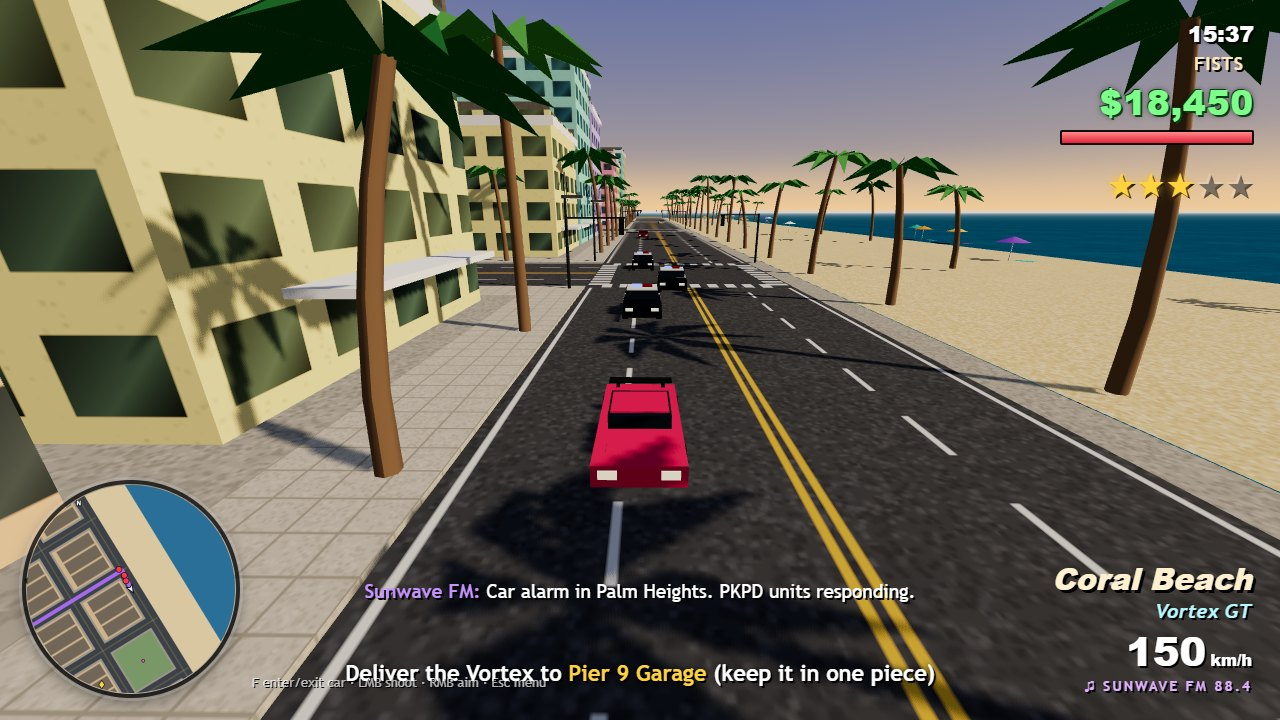
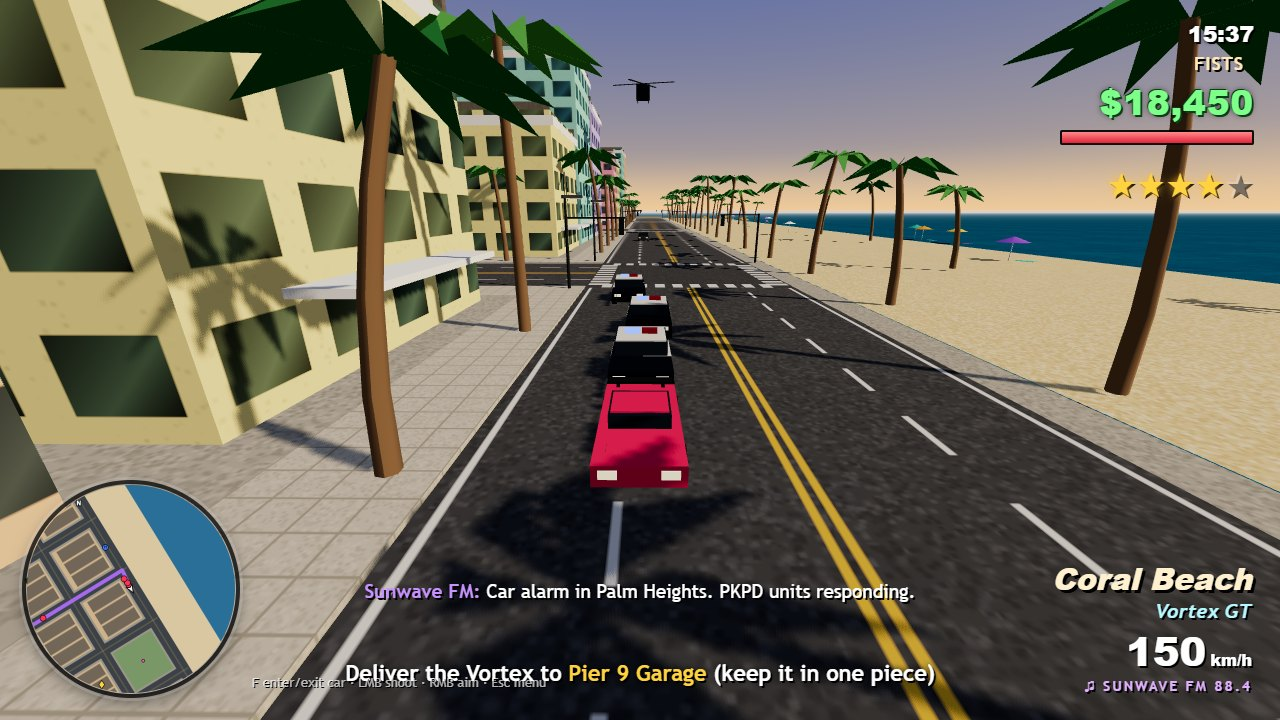
Vigilante side activity, beach walkers, helicopter in the cover chase
- steal a PKPD Cruiser and press V for escalating suspect takedowns
- pedestrians stroll the beach promenade; people and cars follow the
  beach slope
- the helicopter circles lower so it is seen; cover shot at four stars

diff --git a/game/src/activities.js b/game/src/activities.js
@@ -1,0 +1,110 @@
+// Side activities between story missions. Vigilante: steal a PKPD Cruiser and press V to take
+// calls from dispatch; each call is a suspect's car fleeing somewhere in the city that has to be
+// wrecked before the clock runs out. Every level pays more and makes the suspects faster.
+import { spawnTrafficCar } from './traffic.js';
+
+const SUSPECT_MODELS = ['brava', 'mule', 'cabana', 'vortex'];
+
+export function createActivities(game) {
+  const st = { active: false, level: 0, target: null, arrow: null, timer: 0, wait: 0 };
+
+  function clearTarget() {
+    st.arrow?.remove();
+    st.arrow = null;
+    if (st.target) st.target.persistent = false;
+    st.target = null;
+  }
+
+  function nextCall() {
+    clearTarget();
+    const model = SUSPECT_MODELS[Math.min(SUSPECT_MODELS.length - 1, Math.floor(st.level / 2))];
+    const car = spawnTrafficCar(game, 70, 170, model);
+    if (!car) {
+      st.wait = 0.5;
+      return;
+    }
+    car.persistent = true;
+    car.tag = 'suspect';
+    car.ai.cruise = 15 + st.level * 1.5;
+    st.target = car;
+    st.arrow = game.markers.arrow(car, 0xff3b3b);
+    st.timer = 100 + st.level * 5;
+    game.hud.radio([{ name: 'PKPD Dispatch', color: '#7fb2ff', text: `Level ${st.level + 1}: suspect fleeing in a ${car.spec.name}. Take them down.` }]);
+    game.hud.objective('Vigilante: wreck the ~suspect~ car');
+  }
+
+  function start() {
+    st.active = true;
+    st.level = 0;
+    game.hud.bigMessage('VIGILANTE', 'Wreck the suspects before they get away', 'title');
+    nextCall();
+  }
+
+  function stop(reason) {
+    if (!st.active) return;
+    st.active = false;
+    clearTarget();
+    game.hud.timer(null);
+    game.hud.targetBar(null);
+    game.hud.objective('');
+    game.hud.bigMessage('VIGILANTE OVER', reason, 'red');
+    game.stats.vigilanteBest = Math.max(game.stats.vigilanteBest ?? 0, st.level);
+  }
+
+  game.events.on('vehicleExploded', (v) => {
+    if (!st.active || v !== st.target) return;
+    st.level += 1;
+    const reward = 300 + st.level * 250;
+    game.addMoney(reward, false);
+    game.hud.bigMessage('SUSPECT DOWN', `+$${reward} · level ${st.level} cleared`, 'gold');
+    game.audio.passed();
+    clearTarget();
+    st.wait = 3;
+  });
+
+  function update(dt, input) {
+    const v = game.player.vehicle;
+    if (!st.active) {
+      if (v && v.modelId === 'cruiser' && !game.missions.active && !game.missions.inCutscene) {
+        game.hud.hint('<kbd>V</kbd> Start Vigilante duty');
+        if (input.pressed('KeyV')) start();
+      }
+      return;
+    }
+    if (!v || v.modelId !== 'cruiser') {
+      stop('You left the cruiser');
+      return;
+    }
+    if (game.missions.active) {
+      stop('A story mission started');
+      return;
+    }
+    if (input.pressed('KeyV')) {
+      stop('Off duty');
+      return;
+    }
+    if (st.wait > 0) {
+      st.wait -= dt;
+      if (st.wait <= 0) nextCall();
+      return;
+    }
+    const t = st.target;
+    if (!t || t.removed) {
+      nextCall();
+      return;
+    }
+    st.timer -= dt;
+    game.hud.timer(st.timer);
+    game.hud.targetBar(t.health / t.spec.health, 'Suspect');
+    const d = Math.hypot(t.x - v.x, t.z - v.z);
+    if (d < 70 && t.ai) t.ai.panic = 2;
+    if (st.timer <= 0 || d > 340) stop('The suspect got away');
+  }
+
+  function blips() {
+    if (!st.active || !st.target || st.target.dead) return [];
+    return [{ x: st.target.x, z: st.target.z, color: '#ff3b3b', big: true }];
+  }
+
+  return { update, blips, stop, get active() { return st.active; } };
+}

diff --git a/playtest.ts b/playtest.ts
@@ -60,7 +60,7 @@ async function js(expression: string): Promise<any> {
   if (r.result?.exceptionDetails) throw new Error(`${expression}: ${r.result.exceptionDetails.exception?.description}`);
   return r.result?.result?.value;
 }
-const KEYS: Record<string, number> = { KeyW: 87, KeyA: 65, KeyS: 83, KeyD: 68, KeyF: 70, Space: 32, KeyE: 69, Escape: 27, Digit2: 50 };
+const KEYS: Record<string, number> = { KeyV: 86, KeyW: 87, KeyA: 65, KeyS: 83, KeyD: 68, KeyF: 70, Space: 32, KeyE: 69, Escape: 27, Digit2: 50 };
 async function key(code: string, type: 'keyDown' | 'keyUp') {
   await send('Input.dispatchKeyEvent', { type, code, key: code.replace(/^Key|^Digit/, '').toLowerCase(), windowsVirtualKeyCode: KEYS[code] });
 }
@@ -158,6 +158,18 @@ await js(`(async () => { const g = __game; const a = g.player.actor; g.police.se
 for (let i = 0; i < 12 && !(await js(`!!__game.death`)); i += 1) await waitGame(0.5);
 check('player can be busted', await js(`!!__game.death && __game.death.kind === 'busted'`));
 await waitGame(2.5);
+
+// Vigilante: steal a cruiser, press V, wreck the suspect.
+await js(`(async () => { const g = __game; const a = g.player.actor; const { spawnVehicle } = await import('./src/vehicles.js'); const v = spawnVehicle(g, 'cruiser', a.x + 3, a.z, 0, { driver: null }); (await import('./src/player.js')).enterVehicle(g, v); })()`);
+await tap('KeyV');
+await waitGame(0.5);
+check('V starts Vigilante in a cruiser', await js(`__game.activities.active`));
+await js(`(async () => { const g = __game; const t = g.vehicles.find((v) => v.tag === 'suspect'); (await import('./src/vehicles.js')).explodeVehicle(g, t); })()`);
+await waitGame(4);
+check('wrecking the suspect clears a level', await js(`__game.activities.active && __game.vehicles.some((v) => v.tag === 'suspect' && !v.dead)`));
+await js(`(async () => { (await import('./src/player.js')).exitVehicle(__game); })()`);
+await waitGame(0.3);
+check('leaving the cruiser ends Vigilante', !(await js(`__game.activities.active`)));
 
 // The story: start every mission and push each step to done.
 const story = await js(`(async () => {

diff --git a/game/src/shots.js b/game/src/shots.js
@@ -39,14 +39,14 @@ function chaseScene(game) {
   car.heading = 0;
   enterVehicle(game, car);
   game.missions.skipTo(3);
-  game.police.setStars(3);
-  for (const [dx, dz] of [[0, -13], [7.2, -21], [0, -33]]) {
+  game.police.setStars(4);
+  for (const [dx, dz] of [[0, -11], [3.6, -17], [-3.6, -25]]) {
     const cop = spawnVehicle(game, 'cruiser', x + dx, z + dz, 0, { driver: 'police' });
     cop.police = 'chase';
     cop.persistent = true;
     cop.ai = { route: [], routeTimer: 0 };
     cop.vx = 0;
-    cop.vz = 33;
+    cop.vz = 41;
   }
   // Evening traffic on the boulevard, both ways.
   for (const [lane, dz, model] of [[-1, 90, 'cab'], [-1, 160, 'brava'], [1, 120, 'mule'], [-1, 230, 'cabana'], [1, 210, 'brava']]) {
@@ -56,6 +56,13 @@ function chaseScene(game) {
     startCruising(t, lane > 0 ? { i: 10, j: 6 } : { i: 10, j: 2 }, lane > 0 ? { i: 10, j: 5 } : { i: 10, j: 3 });
     t.vz = lane > 0 ? -12 : 10;
   }
+  // The helicopter has already joined the chase, hanging over the cruisers.
+  const heli = game.police.heli;
+  heli.group.visible = true;
+  heli.angle = -Math.PI / 2 - 0.25;
+  heli.x = x + Math.cos(heli.angle) * 38;
+  heli.z = z + Math.sin(heli.angle) * 38;
+  heli.y = 24;
   car.vz = 34;
   run(game, 1.6, () => steerToward(car, x, car.z + 30, 42, STEP));
   // The player has swung the camera round with the mouse to watch the cruisers close in.

diff --git a/game/src/citymap.js b/game/src/citymap.js
@@ -29,6 +29,11 @@ export function nearestNode(x, z) {
   return { i: clamp(x), j: clamp(z) };
 }
 
+/** Height of the ground: flat city, with the beach sloping down to the water. */
+export function groundHeight(x) {
+  return x > CITY.size + 2 ? -((x - CITY.size - 2) / (CITY.beach - 2)) * 0.9 : 0;
+}
+
 export function districtOf(bi, bj) {
   if (bi >= 8) return 'beach';
   if (bj >= 7 && bi <= 4) return 'harbor';
@@ -147,7 +152,10 @@ export function createCityMap(seed = 7) {
     if (rng.chance(0.6)) containers.push({ x, z: CITY.size + 10, w: 6, d: 2.6, h: 2.6 * rng.int(1, 3), color: rng.pick([0xc0392b, 0x2471a3, 0xd68910, 0x1e8449, 0x7d3c98, 0x839192]), rot: 0 });
   }
 
-  return { blocks, buildings, palms, lamps, containers, pools, places };
+  // Where people walk: every block's sidewalk, plus a loop of the beach (promenade and shoreline).
+  const beachWalk = { x0: CITY.size + 5, z0: 30, x1: CITY.size + CITY.beach - 22, z1: CITY.size - 30, district: 'beach', walkOnly: true };
+  const walkAreas = [...blocks, beachWalk, beachWalk, beachWalk];
+  return { blocks, buildings, palms, lamps, containers, pools, places, walkAreas };
 }
 
 function addBuilding(buildings, x0, z0, x1, z1, h, color, style, name = null) {

diff --git a/game/src/game.js b/game/src/game.js
@@ -19,6 +19,7 @@ import { createPedestrians } from './pedestrians.js';
 import { createPickups } from './pickups.js';
 import { createMissions } from './missions.js';
 import { createPlaces } from './places.js';
+import { createActivities } from './activities.js';
 import { createEvents } from './events.js';
 import { createCameraRig } from './camera.js';
 import { createPlayer, exitVehicle } from './player.js';
@@ -76,6 +77,7 @@ export function createGame(canvas, input) {
   game.pickups = createPickups(game);
   game.missions = createMissions(game);
   game.places = createPlaces(game);
+  game.activities = createActivities(game);
   game.minimap = createMinimap(document.getElementById('radar'), game);
 
   game.addMoney = (amount, toast = true) => {
@@ -126,6 +128,7 @@ export function createGame(canvas, input) {
     game.police.clear();
     game.police.wanted.heat = 0;
     game.missions.reset();
+    game.activities.stop('');
     game.hud.objective('');
   }
 

diff --git a/game/src/characters.js b/game/src/characters.js
@@ -5,6 +5,7 @@ import { PLAYER } from './config.js';
 import { buildPerson, posePerson, SKIN_TONES } from './models.js';
 import { rand } from './rng.js';
 import { vehicleCircles } from './vehicles.js';
+import { groundHeight } from './citymap.js';
 
 const SHIRTS = [0xf4a261, 0x2a9d8f, 0xe76f51, 0xffffff, 0x8ecae6, 0xffb703, 0xcdb4db, 0x90be6d, 0xf28482, 0x6d6875, 0xe9edc9];
 const PANTS = [0x264653, 0x3d405b, 0xd4c5a9, 0x6c757d, 0x1d3557, 0xa68a64, 0xf1faee];
@@ -167,7 +168,7 @@ export function checkVehicleHits(game) {
 
 export function syncActorMesh(a, dt) {
   const g = a.model.group;
-  g.position.set(a.x, a.y, a.z);
+  g.position.set(a.x, a.y + groundHeight(a.x), a.z);
   g.rotation.y = a.heading;
   const stride = Math.min(1, a.moveSpeed / 5);
   a.phase += dt * (3 + a.moveSpeed * 1.5);

diff --git a/game/src/pedestrians.js b/game/src/pedestrians.js
@@ -18,7 +18,7 @@ function ringCorners(block) {
 function blockNear(game, x, z) {
   let best = null;
   let bestD = Infinity;
-  for (const b of game.map.blocks) {
+  for (const b of game.map.walkAreas) {
     const cx = (b.x0 + b.x1) / 2;
     const cz = (b.z0 + b.z1) / 2;
     const d = Math.hypot(cx - x, cz - z);
@@ -51,7 +51,7 @@ function assignStroll(a, block) {
 export function spawnPedestrian(game, minDist = 22, maxDist = POPULATION.spawnFar * 0.8) {
   const p = game.player.actor;
   for (let tries = 0; tries < 12; tries += 1) {
-    const block = rand.pick(game.map.blocks);
+    const block = rand.pick(game.map.walkAreas);
     const corners = ringCorners(block);
     const k = rand.int(0, 3);
     const c0 = corners[k];

diff --git a/game/src/vehicles.js b/game/src/vehicles.js
@@ -5,6 +5,7 @@ import * as THREE from '../vendor/three.min.js';
 import { VEHICLES } from './config.js';
 import { buildVehicleModel } from './models.js';
 import { rand } from './rng.js';
+import { groundHeight } from './citymap.js';
 
 let nextId = 1;
 const charred = new THREE.MeshStandardMaterial({ color: 0x1c1a19, roughness: 1 });
@@ -225,7 +226,7 @@ function collidePair(game, a, b) {
 
 export function syncVehicleMesh(v, dt) {
   const g = v.model.group;
-  g.position.set(v.x, 0, v.z);
+  g.position.set(v.x, groundHeight(v.x), v.z);
   g.rotation.y = v.heading;
   const lean = THREE.MathUtils.clamp((v.slip ?? 0) * 0.008 * Math.sign(v.steer), -0.06, 0.06);
   v.model.body.rotation.z = lean;

diff --git a/game/src/police.js b/game/src/police.js
@@ -257,11 +257,11 @@ export function createPolice(game) {
     const p = game.player.actor;
     if (want) {
       heli.angle += dt * 0.35;
-      const tx = p.x + Math.cos(heli.angle) * 28;
-      const tz = p.z + Math.sin(heli.angle) * 28;
+      const tx = p.x + Math.cos(heli.angle) * 38;
+      const tz = p.z + Math.sin(heli.angle) * 38;
       heli.x += (tx - heli.x) * Math.min(1, dt * 0.8);
       heli.z += (tz - heli.z) * Math.min(1, dt * 0.8);
-      heli.y += (34 - heli.y) * Math.min(1, dt * 0.5);
+      heli.y += (24 - heli.y) * Math.min(1, dt * 0.5);
       heli.cooldown -= dt;
       if (heli.cooldown <= 0 && wanted.stars >= 5) {
         heli.cooldown = 0.25;

diff --git a/game/src/minimap.js b/game/src/minimap.js
@@ -98,7 +98,7 @@ export function createMinimap(canvas, game) {
       if (a.role === 'cop' && !a.dead && a.state !== 'patrol') out.push({ x: a.x, z: a.z, color: flash ? '#3f7bff' : '#ff3355', small: true });
     }
     if (game.police.heli.group.visible) out.push({ x: game.police.heli.x, z: game.police.heli.z, color: '#3f7bff', label: 'H', cop: true });
-    return out.concat(game.missions.blips());
+    return out.concat(game.missions.blips(), game.activities.blips());
   }
 
   function drawBlip(b, x, y, size) {

diff --git a/game/src/menus.js b/game/src/menus.js
@@ -67,6 +67,7 @@ export function createMenus(game, handlers) {
       ['Cars stolen', s.carsStolen],
       ['Distance driven', `${(s.driven / 1000).toFixed(1)} km`],
       ['Highest wanted level', '★'.repeat(s.maxStars) || '-'],
+      ['Vigilante best level', s.vigilanteBest ?? 0],
       ['Wasted / Busted', `${s.wasted} / ${s.busted}`],
     ];
     $('stats').innerHTML = rows.map(([k, v]) => `<div>${k}<b>${v}</b></div>`).join('');

diff --git a/game/index.html b/game/index.html
@@ -82,6 +82,7 @@
     <tr><td>R</td><td>Reload</td></tr>
     <tr><td>E</td><td>Use shop, respray, safehouse</td></tr>
     <tr><td>H / T</td><td>Horn / radio on-off</td></tr>
+    <tr><td>V</td><td>Vigilante duty (in a police cruiser)</td></tr>
     <tr><td>Esc or P</td><td>Pause, map and save</td></tr>
   </table>
   <button data-action="back">Back</button>
